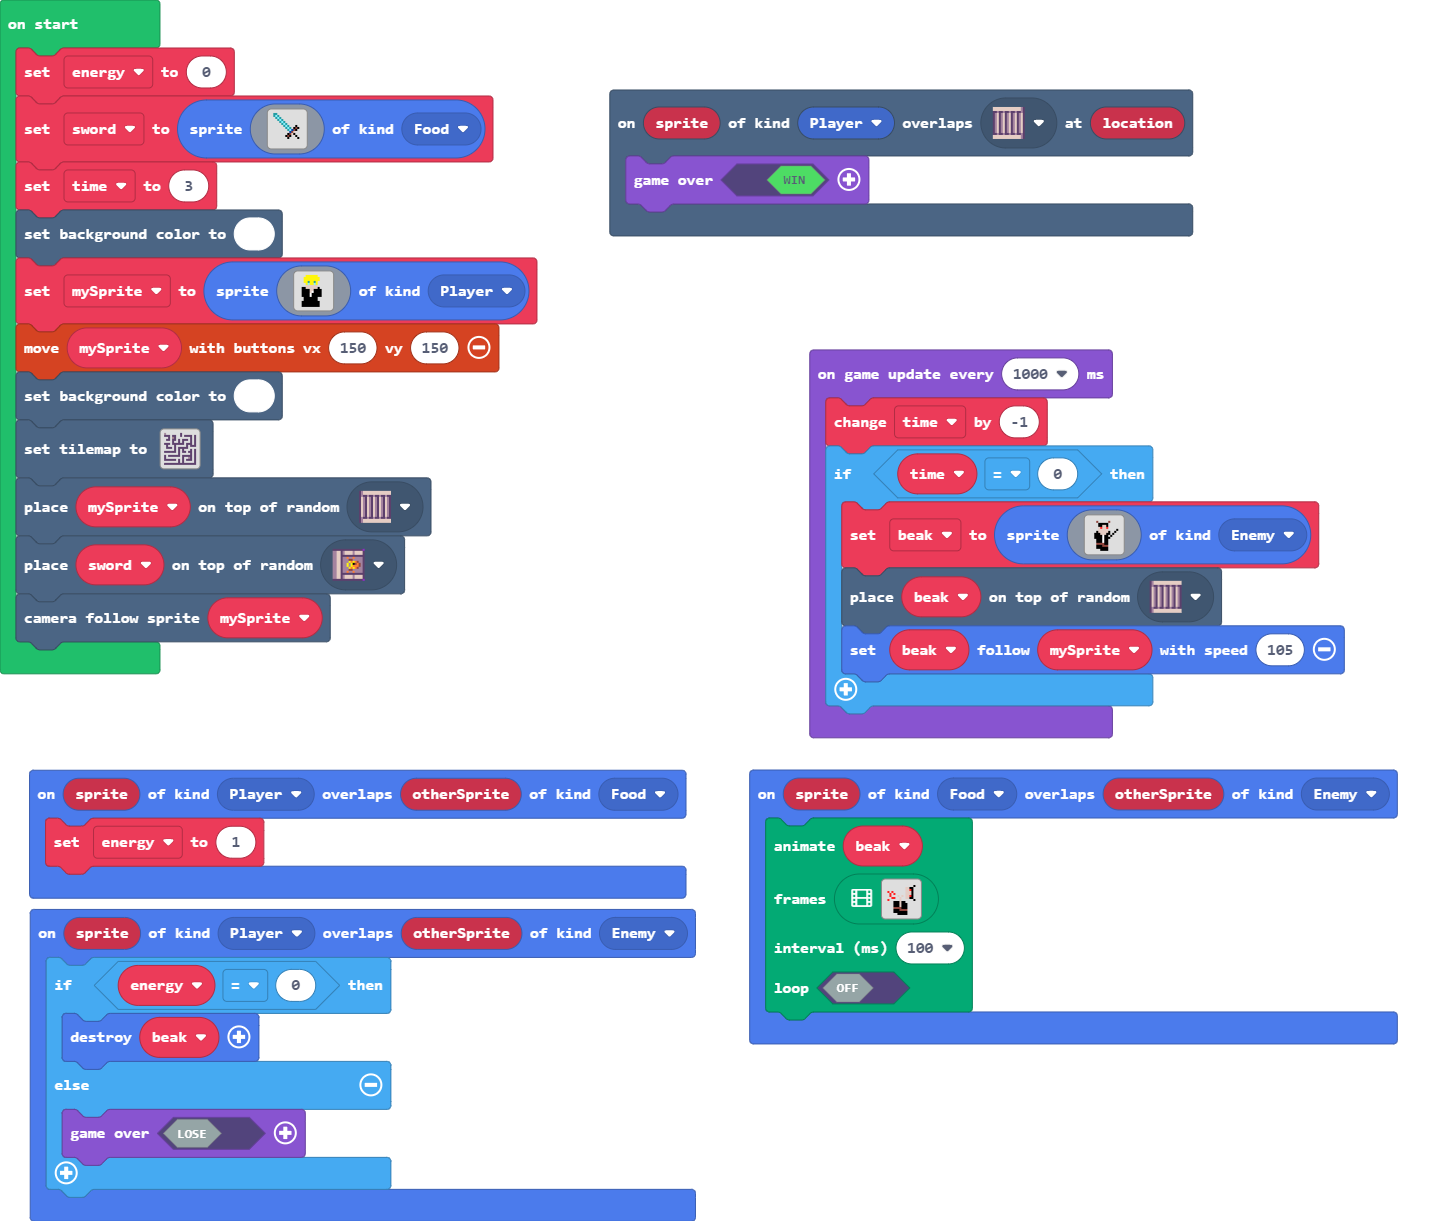
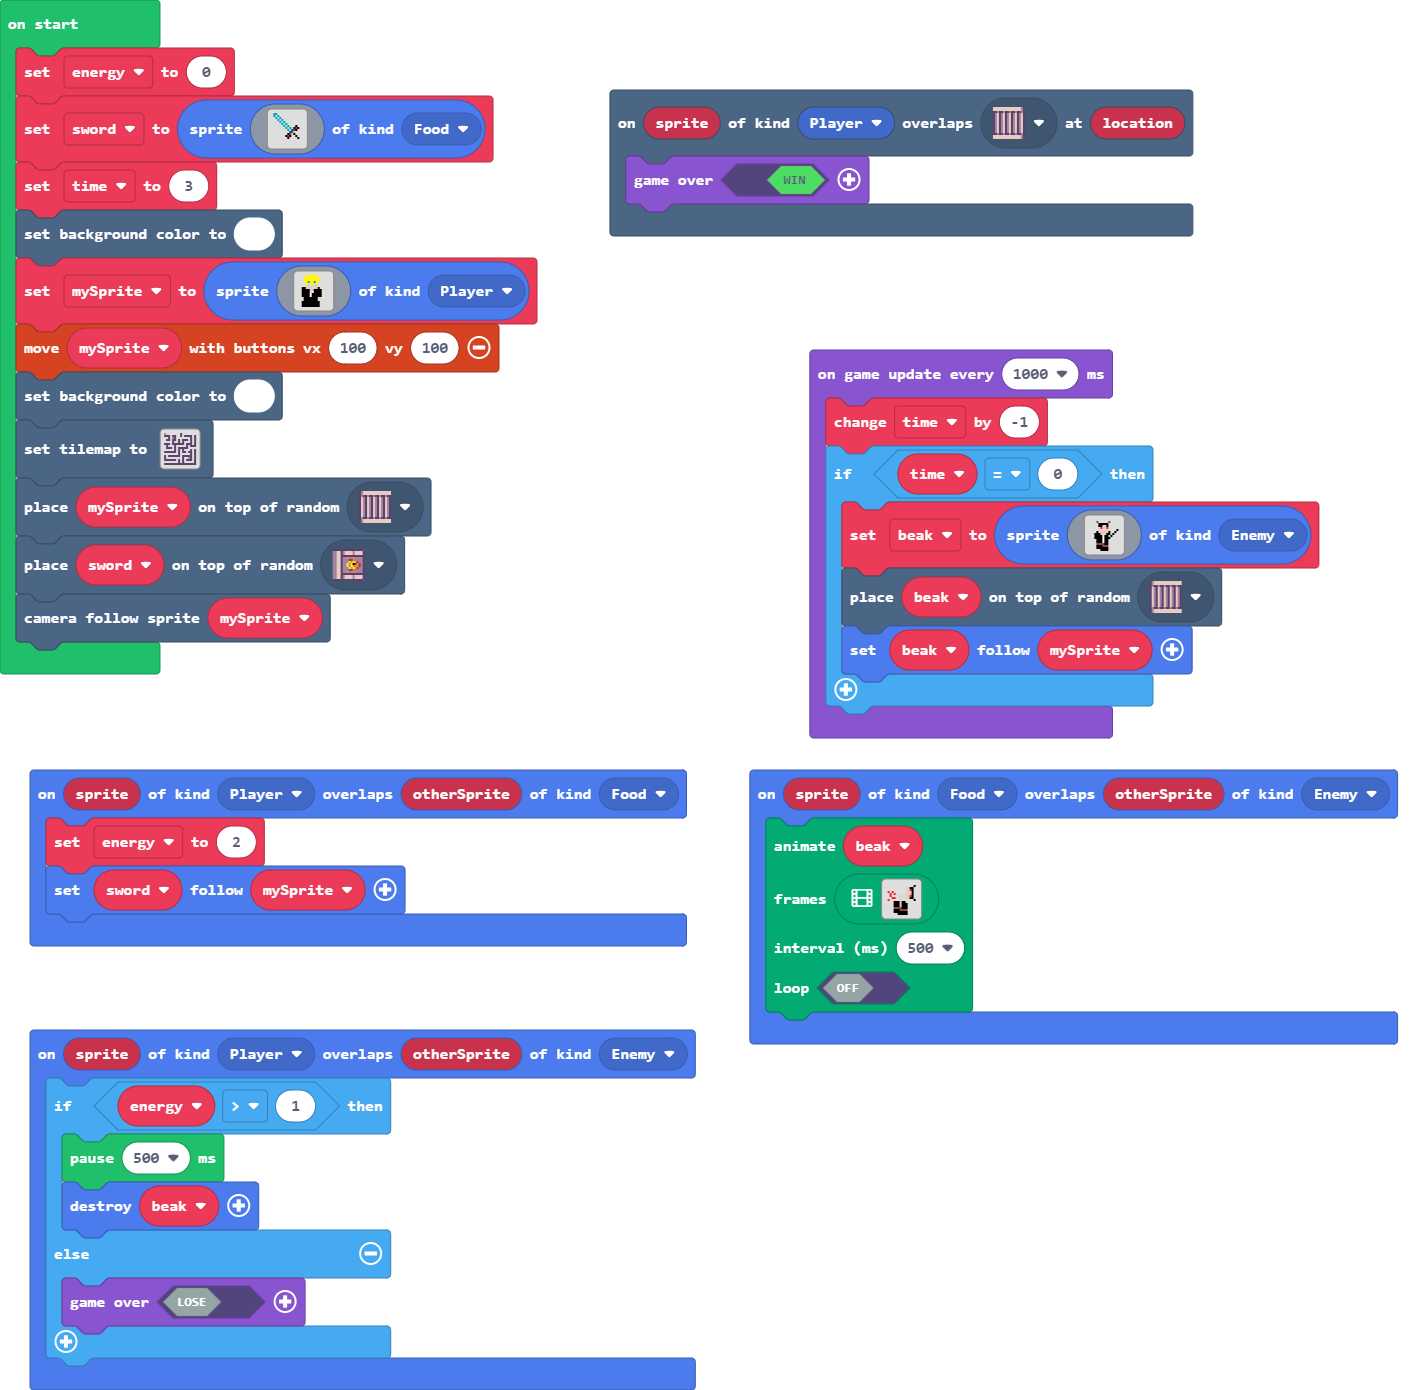
Update pxt.json, main.blocks, main.ts

diff --git a/main.ts b/main.ts
@@ -22,24 +22,28 @@ sprites.onOverlap(SpriteKind.Food, SpriteKind.Enemy, function (sprite, otherSpri
         . . . . f f f f f f f . . . . . 
         . . . . . . f f f f f . . . . . 
         `],
-    100,
+    500,
     false
     )
 })
 sprites.onOverlap(SpriteKind.Player, SpriteKind.Food, function (sprite, otherSprite) {
-    energy = 1
+    energy = 2
+    sword.follow(mySprite)
 })
 sprites.onOverlap(SpriteKind.Player, SpriteKind.Enemy, function (sprite, otherSprite) {
-    if (energy == 0) {
+    if (energy > 1) {
+        pause(500)
         beak.destroy()
     } else {
         game.over(false)
     }
 })
 let beak: Sprite = null
+let mySprite: Sprite = null
+let sword: Sprite = null
 let energy = 0
 energy = 0
-let sword = sprites.create(img`
+sword = sprites.create(img`
     . 6 6 . . . . . . . . . . . . . 
     . 6 9 6 . . . . . . . . . . . . 
     . . 6 9 6 . . . . . . . . . . . 
@@ -59,7 +63,7 @@ let sword = sprites.create(img`
     `, SpriteKind.Food)
 let time = 3
 scene.setBackgroundColor(1)
-let mySprite = sprites.create(img`
+mySprite = sprites.create(img`
     . . . . 5 5 5 5 5 5 . . . . . . 
     . . . 5 5 5 5 5 5 5 5 . . . . . 
     . . . 5 5 5 5 5 5 5 5 . . . . . 
@@ -77,7 +81,7 @@ let mySprite = sprites.create(img`
     . . f f f f f f f f f . . . . . 
     . . f f f f f f f f f . . . . . 
     `, SpriteKind.Player)
-controller.moveSprite(mySprite, 150, 150)
+controller.moveSprite(mySprite, 100, 100)
 scene.setBackgroundColor(1)
 tiles.setTilemap(tilemap`level1`)
 tiles.placeOnRandomTile(mySprite, sprites.dungeon.stairEast)
@@ -105,6 +109,6 @@ game.onUpdateInterval(1000, function () {
             . . . . . . f f f f . . . . . . 
             `, SpriteKind.Enemy)
         tiles.placeOnRandomTile(beak, sprites.dungeon.stairEast)
-        beak.follow(mySprite, 105)
+        beak.follow(mySprite)
     }
 })
